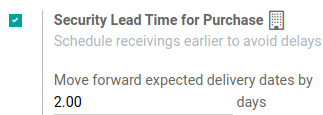
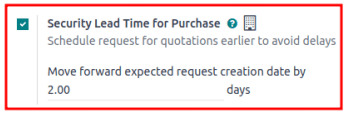
[IMP] inventory: purchase security lead time

diff --git a/content/applications/inventory_and_mrp/inventory/shipping_receiving/advanced_operations_shipping/scheduled_dates.rst b/content/applications/inventory_and_mrp/inventory/shipping_receiving/advanced_operations_shipping/scheduled_dates.rst
@@ -5,6 +5,7 @@ Scheduled delivery dates
 .. |MOs| replace:: :abbr:`MOs (Manufacturing Orders)`
 .. |BoM| replace:: :abbr:`BoM (Bill of Materials)`
 .. |BoMs| replace:: :abbr:`BoMs (Bills of Materials)`
+.. |RFQ| replace:: :abbr:`RFQ (Request for Quotation)`
 
 Accurately forecasting delivery dates is vital for fulfilling customer expectations. In Odoo, the
 *Inventory* app allows for comprehensive lead time configuration, allowing coordination and planning
@@ -20,38 +21,49 @@ process. Here's a summary of the types of lead times in Odoo:
    :align: center
    :alt: Show graphic of all lead times working together.
 
-- :ref:`Customer lead time <inventory/management/customer-lt>`: The default time frame for
+- :ref:`Customer lead time <inventory/shipping_receiving/customer-lt>`: default time frame for
   fulfilling customer orders. The customer lead time is the number of days from the date the sales
   order (SO) is confirmed to the date the products are shipped from the warehouse. This is also
   known as *delivery lead time*.
 
-- :ref:`Sales security lead time <inventory/management/sales-security-lt>`: moves the *scheduled
-  delivery date* forward by a specified number of days. This serves as a buffer to allow the team
+- :ref:`Sales security lead time <inventory/shipping_receiving/sales-security-lt>`: moves the
+  *scheduled delivery date* forward by a specified number of days. This serves as a buffer to allow
   ample time to prepare the outgoing shipment earlier, considering the possibility of delays in the
   fulfillment process.
 
-- :ref:`Purchase lead time <inventory/management/purchase-lt>`: the number of days from the
+- :ref:`Purchase lead time <inventory/shipping_receiving/purchase-lt>`: number of days from the
   confirmation of a purchase order (PO) to the receipt of products. It provides insight on the time
   it takes for products to arrive at the warehouse, facilitating effective scheduling and planning
   of supplier deliveries.
 
-- :ref:`Purchase security lead time <inventory/management/purchase-security-lt>`: advances the order
-  deadline on a :abbr:`PO (Purchase Order)` by a specified number of days. This proactive approach
-  of placing orders earlier mitigates the risk of vendor or shipping delays. Thus, for products that
-  are set to replenish to order, the need appears on the *Replenishment report* earlier, according
-  to the specified number of days.
+- :ref:`Purchase security lead time <inventory/shipping_receiving/purchase-security-lt>`: advances
+  the order deadline on a :abbr:`PO (Purchase Order)` by a specified number of days. This proactive
+  approach of placing orders earlier mitigates the risk of vendor or shipping delays. Thus, for
+  products that are set to replenish to order, the need appears on the *Replenishment report*
+  earlier, according to the specified number of days.
 
-- :ref:`Manufacturing lead time <inventory/management/manuf-lt>`: the number of days needed to
+- :ref:`Days to Purchase <inventory/shipping_receiving/days-to-purchase>`: days needed for the
+  vendor to receive a request for quotation (RFQ) and confirm it. It advances the deadline to
+  schedule a |RFQ| by a specified number of days.
+
+- :ref:`Manufacturing lead time <inventory/shipping_receiving/manuf-lt>`: number of days needed to
   complete a manufacturing order (MO) from the date of confirmation. This lead time includes
   weekends (non-working hours in Odoo), and is used to forecast an approximate production date for a
   finished good.
 
-- :ref:`Manufacturing security lead time <inventory/management/manuf-security-lt>`: moves the
-  scheduled date of the :abbr:`MO (Manufacturing Order)` forward by a specified number of days. When
-  used in conjunction with :ref:`replenish to order <inventory/management/products/strategies>`, the
-  security lead time makes the need appear earlier on the replenishment report.
+- :ref:`Days to prepare manufacturing order
+  <inventory/shipping_receiving/prepare-manufacturing-order>`: number of days needed to replenish
+  components, or manufacture sub-assemblies of the product. Either set one directly on the bill of
+  materials (BoM), or click *Compute* to sum up purchase and manufacturing lead times of components
+  in the |BoM|.
 
-.. _inventory/management/customer-lt:
+- :ref:`Manufacturing security lead time <inventory/shipping_receiving/manuf-security-lt>`: moves
+  the scheduled date of the :abbr:`MO (Manufacturing Order)` forward by a specified number of days.
+  When used in conjunction with :ref:`replenish to order
+  <inventory/management/products/strategies>`, the security lead time makes the need appear earlier
+  on the replenishment report.
+
+.. _inventory/shipping_receiving/customer-lt:
 
 Sales lead times
 ================
@@ -91,7 +103,7 @@ in the number of calendar days required to fulfill the delivery order from start
       :align: center
       :alt: Set *Customer Lead Time* on the product form.
 
-.. _inventory/management/sales-security-lt:
+.. _inventory/shipping_receiving/sales-security-lt:
 
 Sales security lead time
 ------------------------
@@ -142,7 +154,7 @@ and set the :guilabel:`Shipping Policy` to:
    delivery date is 5 days from today: April 7th. On the other hand, selecting :guilabel:`When all
    products are ready` configures the scheduled date to be 8 days from today: April 10th.
 
-.. _inventory/management/purchase-lt:
+.. _inventory/shipping_receiving/purchase-lt:
 
 Purchase lead times
 ===================
@@ -207,7 +219,7 @@ timeframe.
       :align: center
       :alt: Show expected *Scheduled Date* of arrival of the product from the vendor.
 
-.. _inventory/management/purchase-security-lt:
+.. _inventory/shipping_receiving/purchase-security-lt:
 
 Purchase security lead time
 ---------------------------
@@ -215,15 +227,15 @@ Purchase security lead time
 *Purchase security lead time* is set globally for the business in :menuselection:`Inventory app -->
 Configuration --> Settings`.
 
-On the configuration page, under the :guilabel:`Advanced Scheduling` heading, locate the box for
-:guilabel:`Security Lead Time for Purchase`, and click the checkbox to enable the feature.
+On the :guilabel:`Settings` page, under the :guilabel:`Advanced Scheduling` heading, tick the
+checkbox for :guilabel:`Security Lead Time for Purchase`.
 
 Next, enter the desired number of calendar days. By configuring the security lead time, a buffer is
-set to account for potential delays in supplier deliveries.
+set to account for potential delays in supplier deliveries. Then, click :guilabel:`Save`.
 
 .. example::
    Setting the :guilabel:`Security Lead Time for Purchase` to `2.00` days, pushes the
-   :guilabel:`Scheduled Date` of receipt back by one day. In that case, if a product is initially
+   :guilabel:`Scheduled Date` of receipt back by two days. In that case, if a product is initially
    scheduled to arrive on April 6th, with a two-day security lead time, the new scheduled date for
    the receipt would be April 8th.
 
@@ -231,7 +243,21 @@ set to account for potential delays in supplier deliveries.
       :align: center
       :alt: Set security lead time for purchase from the Inventory > Configuration > Settings.
 
-.. _inventory/management/manuf-lt:
+.. _inventory/shipping_receiving/days-to-purchase:
+
+Days to purchase
+----------------
+
+To set up the *days to purchase* lead time, go to :menuselection:`Inventory app --> Configuration
+--> Settings`. Under the :guilabel:`Advanced Scheduling` section, in the :guilabel:`Days to
+Purchase` field, specify the number of days required for the vendor to confirm a |RFQ| after
+receiving it from the company.
+
+.. image:: scheduled_dates/days-to-purchase.png
+   :align: center
+   :alt: Show "Days to Purchase" configuration in the Settings page.
+
+.. _inventory/shipping_receiving/manuf-lt:
 
 Manufacturing lead times
 ========================
@@ -258,7 +284,7 @@ of Materials`, and select the desired |BoM| to edit.
 On the |BoM| form, click the :guilabel:`Miscellaneous` tab. Change the value (in days) in the
 :guilabel:`Manuf. Lead Time` field to specify the calendar days needed to manufacture the product.
 
-.. image:: scheduled_dates/scheduled-dates-manuf-lead-time.png
+.. image:: scheduled_dates/set-manufacturing.png
    :align: center
    :alt: Manuf. Lead Time value specified on a product's Bill of Material form.
 
@@ -269,17 +295,6 @@ On the |BoM| form, click the :guilabel:`Miscellaneous` tab. Change the value (in
    If the |BoM| product is subcontracted, the :guilabel:`Manuf. Lead Time` can be used to determine
    the date at which components should be sent to the subcontractor.
 
-Change the value (in days) in the :guilabel:`Days to prepare Manufacturing Order` field to create
-and confirm |MOs| in advance, and have enough time to replenish components, or manufacture
-semi-finished products.
-
-.. tip::
-   Clicking :guilabel:`Compute`, located next to the :guilabel:`Days to prepare Manufacturing Order`
-   field, computes the days required to resupply all components listed on the |BoM| form, either by
-   buying or manufacturing the components or subassemblies.
-
-   *Purchase security lead times* that impact this specific |BoM| are also added to this value.
-
 Establish a :abbr:`MO (Manufacturing Order)` deadline, based on the *expected delivery date*,
 indicated in the :guilabel:`Scheduled Date` field of the :abbr:`DO (Delivery Order)`.
 
@@ -289,31 +304,57 @@ manufacturing lead time.
 
 This ensures the manufacturing process begins on time, in order to meet the delivery date.
 
-However, it's important to note that lead times are based on calendar days. Lead times do **not**
+However, it is important to note that lead times are based on calendar days. Lead times do **not**
 consider weekends, holidays, or *work center capacity* (:dfn:`the number of operations that can be
 performed at the work center simultaneously`).
 
 .. seealso::
-   - :ref:`Manufacturing planning <manufacturing/management/use_mps>`
-   - :ref:`Configure automatic MO scheduling with reordering rules
-     <inventory/management/reordering_rules>`
+   - :doc:`Manufacturing planning <../../../manufacturing/workflows/use_mps>`
+   - :doc:`Schedule MOs with reordering rules
+     <../../product_management/product_replenishment/reordering_rules>`
 
 .. example::
    A product's scheduled shipment date on the :abbr:`DO (Delivery Order)` is August 15th. The
    product requires 14 days to manufacture. So, the latest date to start the :abbr:`MO
    (Manufacturing Order)` to meet the commitment date is August 1st.
 
-.. _inventory/management/manuf-security-lt:
+.. _inventory/shipping_receiving/prepare-manufacturing-order:
+
+Days to prepare manufacturing order
+-----------------------------------
+
+Configure the days required to gather components to manufacture a product by going to its |BoM|. To
+do that, go to :menuselection:`Manufacturing app --> Products --> Bills of Materials`, and select
+the desired |BoM|.
+
+In the :guilabel:`Miscellaneous` tab of the |BoM|, specify the calendar days needed to obtain
+components of the product in the :guilabel:`Days to prepare Manufacturing Order` field. Doing so
+creates |MOs| in advance, and ensures there is enough time to either replenish components, or
+manufacture semi-finished products.
+
+.. tip::
+   Clicking :guilabel:`Compute`, located next to the :guilabel:`Days to prepare Manufacturing Order`
+   field, calculates the longest lead time among all the components listed on the |BoM|.
+
+   *Purchase security lead times* that impact this specific |BoM| are also added to this value.
+
+.. example::
+
+   A |BoM| has two components, one has a manufacturing lead time of two days, and the other has a
+   purchase lead time of four days. The :guilabel:`Days to prepare Manufacturing Order` is four
+   days.
+
+.. _inventory/shipping_receiving/manuf-security-lt:
 
 Manufacturing security lead time
 --------------------------------
 
 *Manufacturing security lead time* is set globally for the business in :menuselection:`Manufacturing
-app --> Configuration --> Settings`. Under the :guilabel:`Planning` heading, locate the box for
-:guilabel:`Security Lead Time`, and click the checkbox to enable the feature.
+app --> Configuration --> Settings`. Under the :guilabel:`Planning` heading, tick the checkbox for
+:guilabel:`Security Lead Time`.
 
 Next, enter the desired number of calendar days. By configuring the security lead time, a buffer is
-set to account for potential delays in the manufacturing process.
+set to account for potential delays in the manufacturing process. Then, click :guilabel:`Save`.
 
 .. image:: scheduled_dates/manuf-security.png
    :align: center

diff --git a/content/applications/inventory_and_mrp/inventory/product_management/product_replenishment/reordering_rules.rst b/content/applications/inventory_and_mrp/inventory/product_management/product_replenishment/reordering_rules.rst
@@ -211,8 +211,9 @@ advance.
    The current date is February 20th, and the *delivery date* on a sales order (in the
    :guilabel:`Other Info` tab) is March 3rd — twelve days from the current date.
 
-   The :ref:`vendor lead time <inventory/management/purchase-lt>` is four days, and the
-   :ref:`purchase security lead time <inventory/management/purchase-security-lt>` is one day.
+   The :ref:`vendor lead time <inventory/shipping_receiving/purchase-lt>` is four days, and the
+   :ref:`purchase security lead time <inventory/shipping_receiving/purchase-security-lt>` is one
+   day.
 
    When the :guilabel:`Visibility Days` field of the reordering rule is set to zero, the product
    appears on the replenishment dashboard five days before the delivery date, which, in this case,
